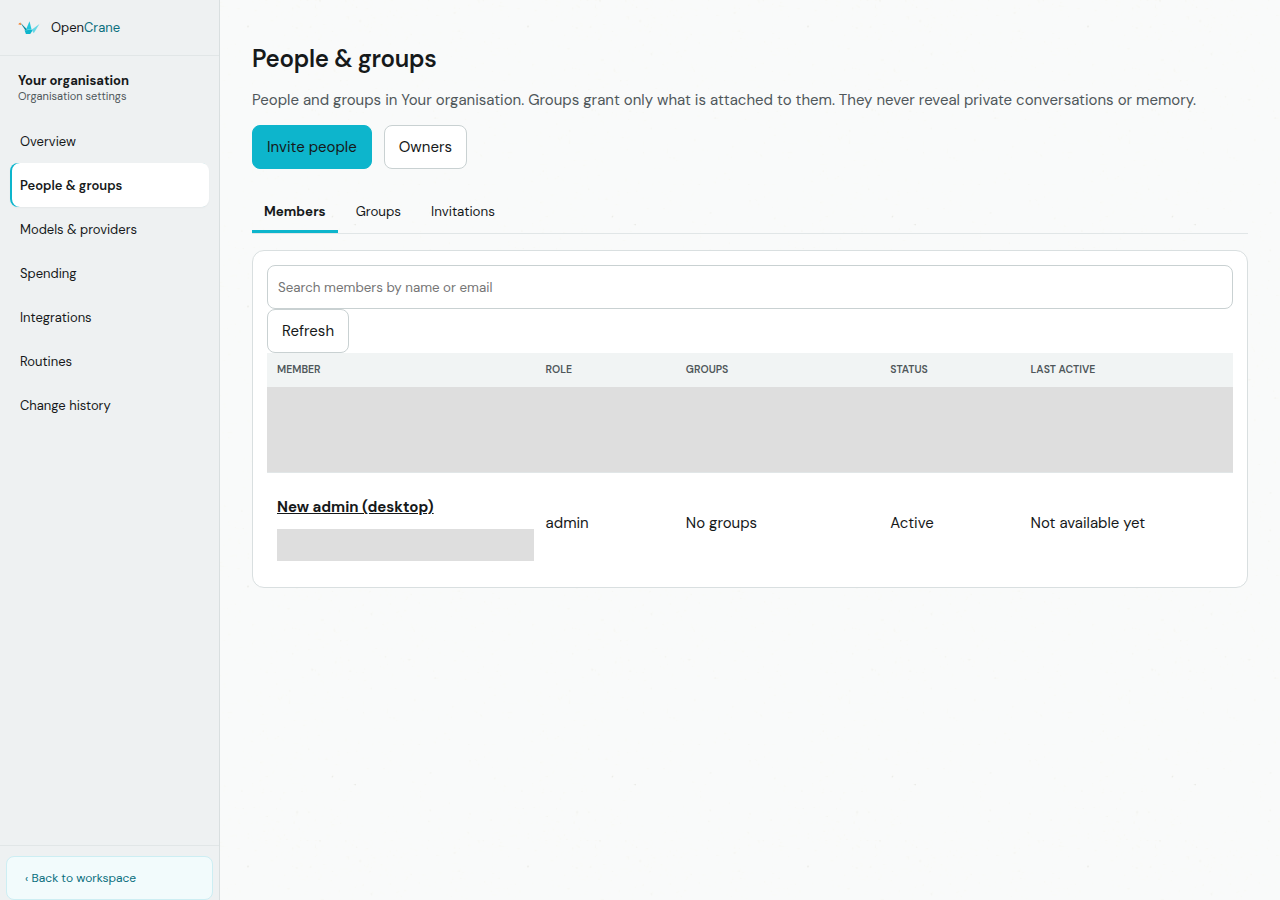
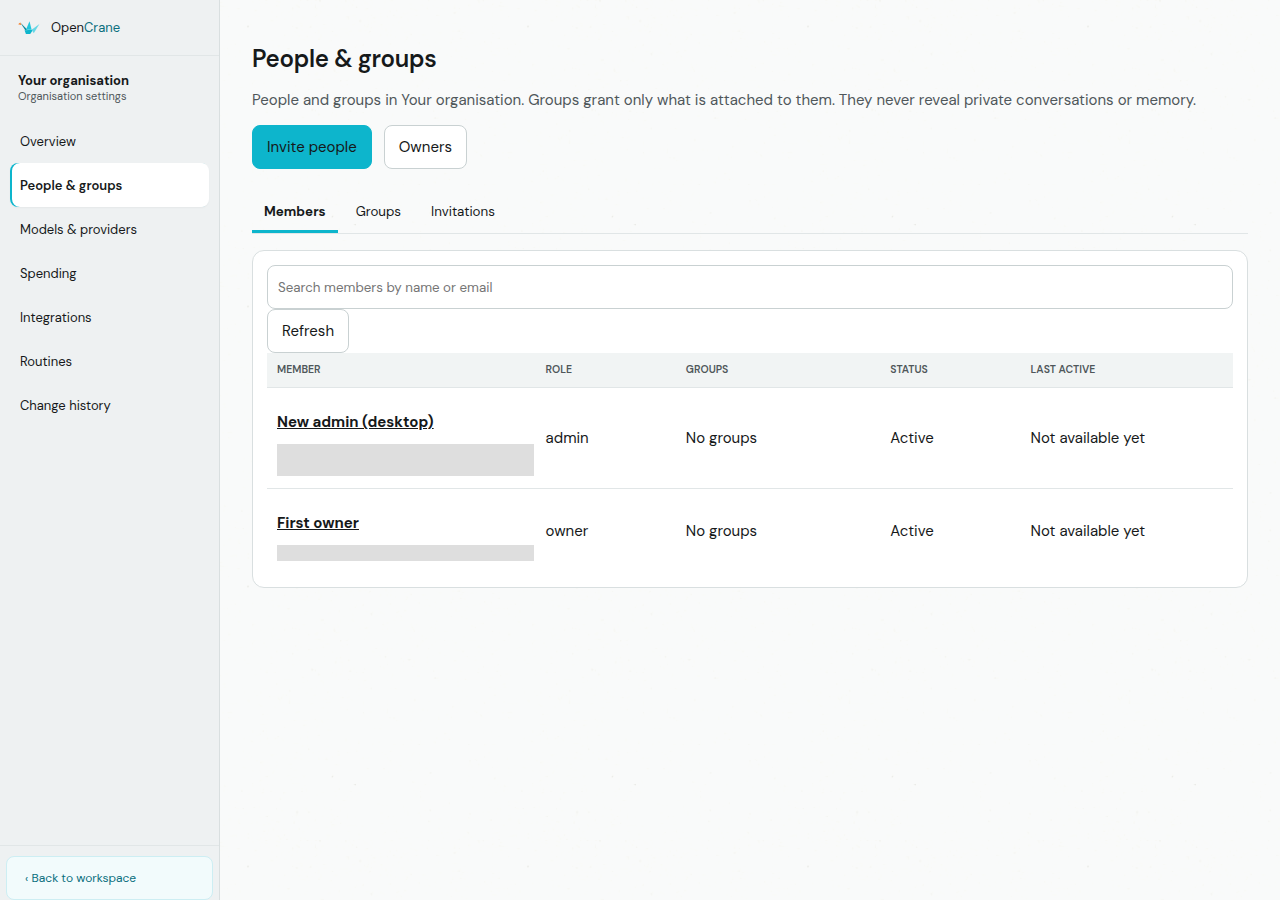
📸 Record the fresh owner and invitation journeys

diff --git a/docs/process/work-bug-1205-s1/journey.md b/docs/process/work-bug-1205-s1/journey.md
@@ -1,26 +1,32 @@
-# Opening People after accepting an invitation
+# Opening People after claiming or joining
 
-**Fresh-stack journey — PASS.** Run on 26 November 2026 in slot 1 from source
-commit `1f41c5f2204e8d53f6c13dae017fd867a4bbbaea`.
+**Fresh-stack journey — PASS.** Run on 27 November 2026 on secondary slot 1
+from source revision `d21eb541e59f43f118a632e7860d2c3e8e48a355`.
+The stack used the stand-in model and the first-owner claim flow.
 
-1. Started a fresh secondary stack with the stand-in model and checked that its
-   services were healthy. The invitations were prepared for test accounts.
-2. At each width, a different person signed in, accepted an admin invitation and
-   opened People straight away. Acceptance and the first directory read both
-   returned HTTP 200. Their own member row and an enabled **Invite people** button
-   were visible without refreshing.
-3. A third person accepted an ordinary Member invitation. Their own member header
-   returned HTTP 200. When they opened People at each width, the directory returned
-   HTTP 403. The page showed **Your access changed** and hid member rows and the
-   invite button.
-4. Saved the screenshots, stopped the stack and checked that slot 1 was free.
+1. Claimed slot 1 after five minutes with the host load below 6. Started it
+   with `up.sh --fresh --id 1` and confirmed it was healthy with `status.sh --id 1`.
+2. Signed in as the first owner, submitted the installation claim and received
+   HTTP 201. Opened People in two browser tabs as soon as the claim was confirmed.
+   Both showed the owner row and an enabled **Invite people** button. Neither
+   received HTTP 503.
+3. Used the owner's invitation API to prepare two admin invitations. A different
+   person accepted one at each width and opened People straight away. Each saw
+   their member row and an enabled **Invite people** button without refreshing.
+   The desktop read returned HTTP 425 once before the automatic retry succeeded.
+4. A third person accepted an ordinary Member invitation. Their own member header
+   returned HTTP 200. At both widths, People returned HTTP 403 and showed
+   **Your access changed**. The page contained no member rows or invite button.
+5. Saved six screenshots with contact details hidden. Ran `down.sh --id 1`
+   and confirmed slot 1 was free.
 
 | Check | 1280 px | 390 px |
 | --- | --- | --- |
-| New admin opens People with **Invite people** | [PASS, 1.37 s](admin-people-1280.png) | [PASS, 2.14 s](admin-people-390.png) |
-| Ordinary member is refused | [PASS](member-refused-1280.png) | [PASS](member-refused-390.png) |
+| First owner sees **Invite people** | [PASS, HTTP 200 in 1.90 s](owner-people-1280.png) | [PASS, HTTP 200 in 2.99 s](owner-people-390.png) |
+| Invited admin sees **Invite people** | [PASS, HTTP 425 then 200 in 4.61 s](admin-people-1280.png) | [PASS, HTTP 200 in 1.92 s](admin-people-390.png) |
+| Ordinary member is refused | [PASS, HTTP 403](member-refused-1280.png) | [PASS, HTTP 403](member-refused-390.png) |
 
-Times run from the join reply to the visible invite button. Screenshots hide
-contact details. The live runs applied both joins by the first directory read.
-The server tests hold back the member table or the permissions service to check the HTTP 425
-reply. The web test checks that the page then reads again.
+Times run from the claim or join reply to the visible invite button. The server
+tests also hold back the member table and OpenFGA separately. The website tests
+check that earlier rows clear on the first applying reply and stay hidden if
+the retries run out.
